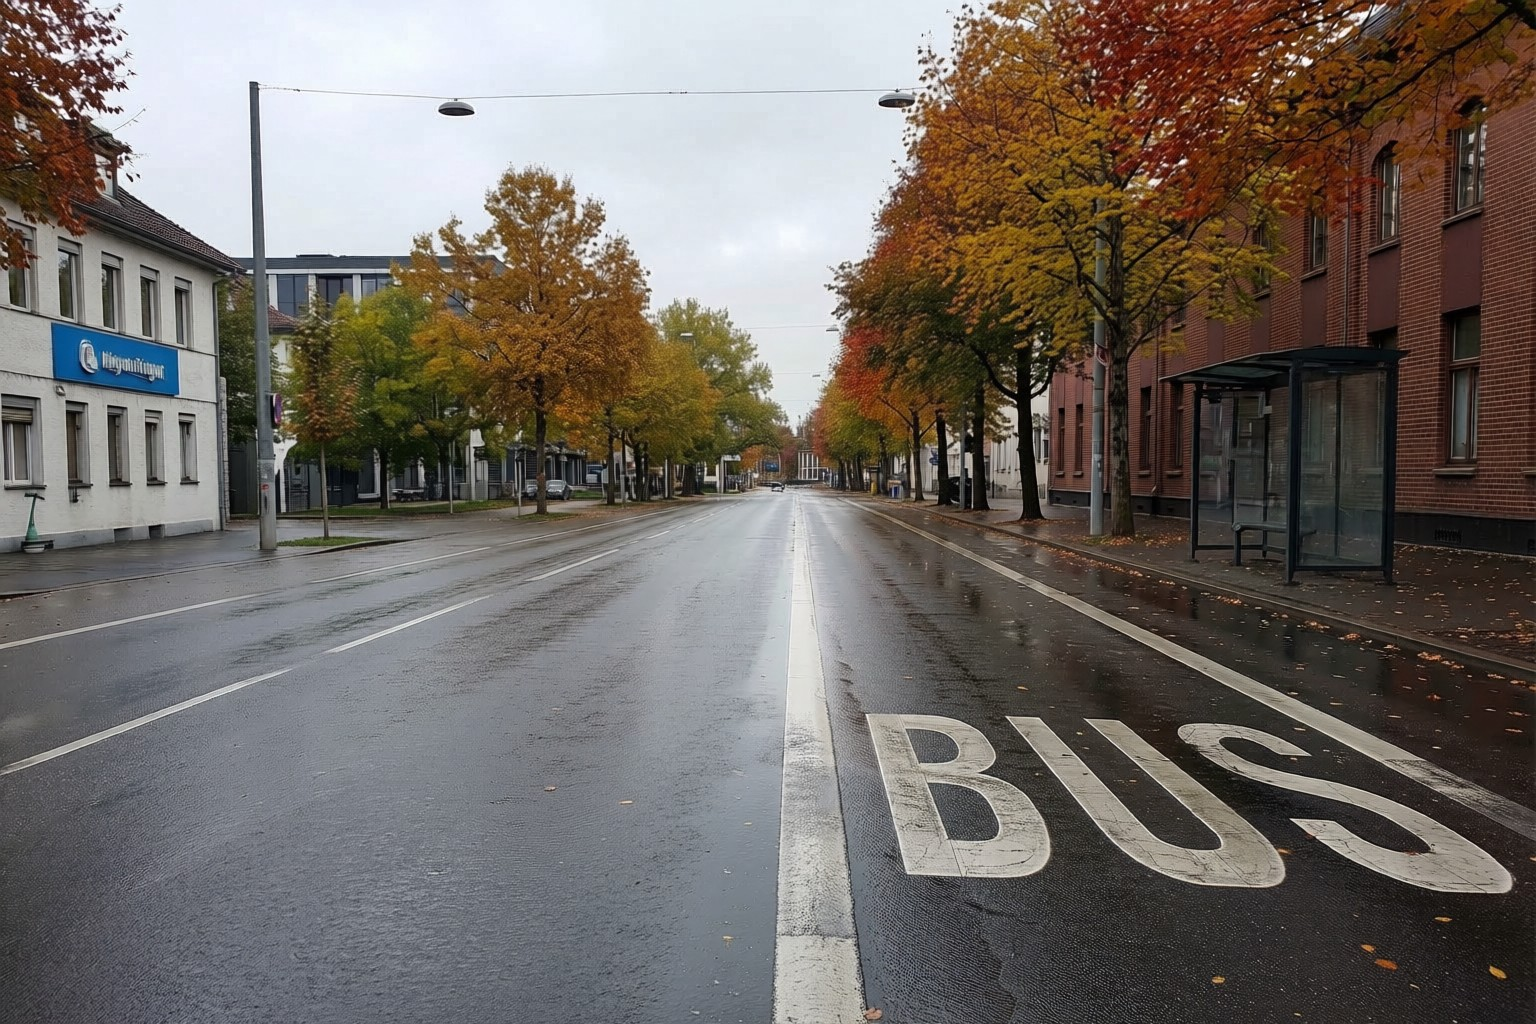
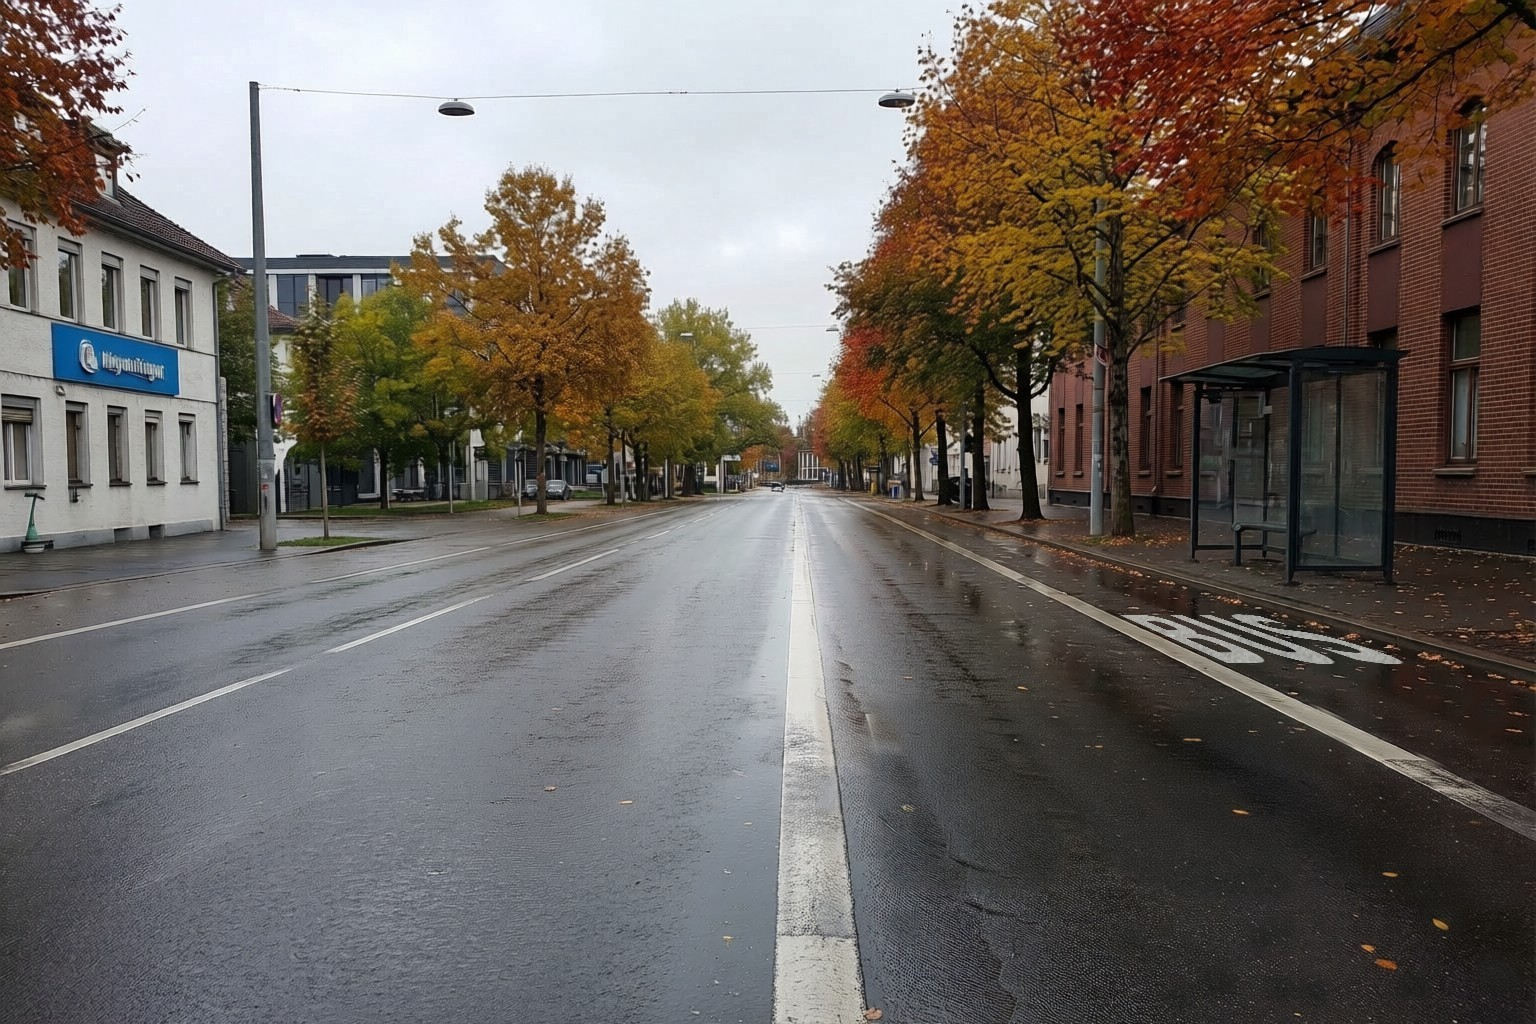
Street view: Etzelstraße stop sign and bus lane at the stop
- Blue-and-white name board "Etzelstraße" beside the shelter in both views, with the H stop sign
- South view: one lane each way plus a bus lane along the kerb at the stop; the BUS lettering
  is removed from the general lane (instruction edit) and painted into the kerb strip
- centre_view.py: --edit-only and --seeds to redo the edit; the image before it is kept

diff --git a/street.js b/street.js
@@ -249,6 +249,7 @@ function render(opts = {}) {
 
   ctx.globalAlpha = 1;
   ctx.drawImage(img, 0, 0);
+  busStop();
   ctx.save();
   ctx.clip(S.ground);
   for (const o of objs) groundMarks(o, sun);
@@ -270,6 +271,64 @@ function render(opts = {}) {
   if (S.debug) debugGrid();
   updateCount();
   showResult(sun);
+}
+
+// ------------------------------------------------------------------ bus stop
+// The stop's blue name board beside the shelter and a stop sign (green H on yellow, as in Germany),
+// drawn into the view at the image positions in config/street.json ("stop" per view).
+
+const STOP_YELLOW = '#f7d117', STOP_GREEN = '#0b6b3a', STOP_BLUE = '#1f4e96';
+
+function busStop() {
+  const stop = S.view.stop, name = S.cfg.stop && S.cfg.stop.name;
+  if (!stop || !name) return;
+  const {ctx} = S;
+  const at = px => { const g = S.cam.toGround(...px); return g && S.cam.project(g.x, 0, g.z); };
+  // name board beside the shelter: blue with a white border and white lettering, on two posts,
+  // standing across the footpath so it faces the traffic (and the camera), 1.5 x 0.45 m, top at 2.6 m
+  const b = at(stop.sign);
+  if (b) {
+    const s = b.scale, w = 1.5 * s, h = 0.45 * s, x = b.u - w / 2, y = b.v - 2.6 * s;
+    ctx.save();
+    ctx.fillStyle = '#6c7378';
+    for (const dx of [-0.55, 0.55]) ctx.fillRect(b.u + (dx - 0.03) * s, y + h, 0.06 * s, 2.6 * s - h);
+    ctx.fillStyle = STOP_BLUE;
+    ctx.fillRect(x, y, w, h);
+    ctx.strokeStyle = '#fff';
+    ctx.lineWidth = Math.max(1, 0.03 * s);
+    ctx.strokeRect(x + 0.04 * s, y + 0.04 * s, w - 0.08 * s, h - 0.08 * s);
+    ctx.fillStyle = '#fff';
+    ctx.font = `700 ${(0.22 * s).toFixed(1)}px "DejaVu Sans", system-ui, sans-serif`;
+    ctx.textAlign = 'center';
+    ctx.textBaseline = 'middle';
+    ctx.fillText(name, b.u, y + h / 2 + 0.01 * s, w - 0.2 * s);
+    ctx.restore();
+  }
+  // stop sign (H) on its pole, at the size the perspective gives
+  const p = at(stop.pole);
+  if (!p) return;
+  const s = p.scale;
+  ctx.save();
+  ctx.fillStyle = '#6c7378';
+  ctx.fillRect(p.u - 0.035 * s, p.v - 2.6 * s, 0.07 * s, 2.6 * s);
+  stopH(ctx, p.u, p.v - 2.35 * s, 0.22 * s);
+  ctx.restore();
+}
+
+// The German stop symbol: a green H on a yellow disc with a green ring.
+function stopH(ctx, x, y, r) {
+  ctx.save();
+  ctx.fillStyle = STOP_YELLOW;
+  ctx.beginPath(); ctx.arc(x, y, r, 0, 2 * Math.PI); ctx.fill();
+  ctx.strokeStyle = STOP_GREEN;
+  ctx.lineWidth = r * 0.16;
+  ctx.beginPath(); ctx.arc(x, y, r * 0.9, 0, 2 * Math.PI); ctx.stroke();
+  ctx.fillStyle = STOP_GREEN;
+  ctx.font = `700 ${(r * 1.25).toFixed(1)}px "DejaVu Sans", system-ui, sans-serif`;
+  ctx.textAlign = 'center';
+  ctx.textBaseline = 'middle';
+  ctx.fillText('H', x, y + r * 0.06);
+  ctx.restore();
 }
 
 // Contact shadows and sun shadows on the ground (drawn under every object).

diff --git a/scripts/centre_view.py b/scripts/centre_view.py
@@ -4,6 +4,11 @@
     python scripts/centre_view.py              # every view
     python scripts/centre_view.py north        # one of them
     python scripts/centre_view.py --seed 7     # another take, if one is not convincing
+    python scripts/centre_view.py south --edit-only --seeds 3   # redo only the lane edit, 3 takes
+
+A view may have an "edit" (here: the lane layout of the south view): the model removes road
+lettering by instruction, only that area is kept, then the script paints new road lettering onto
+the ground in perspective, into a quadrilateral given in image pixels. The image before the edit is kept.
 
 The photos in data/street/ were taken from the pavement. For each view the open model
 Qwen-Image-Edit-2511 (Apache 2.0) gets the street's photos and is asked for the same street,
@@ -20,16 +25,20 @@ import json
 import pathlib
 import time
 
+import cv2
+import numpy as np
+
 import safetensors.torch
 import torch
 from diffusers import QwenImageEditPlusPipeline, QwenImageTransformer2DModel
 from huggingface_hub import snapshot_download
-from PIL import Image
+from PIL import Image, ImageDraw, ImageFilter, ImageFont
 from transformers import AutoConfig, Qwen2_5_VLForConditionalGeneration
 
 ROOT = pathlib.Path(__file__).resolve().parents[1]
 MODEL = "Qwen/Qwen-Image-Edit-2511"
 SIZE = (1536, 1024)  # landscape
+FONT = "DejaVuSans-Bold.ttf"  # road lettering (Pillow finds it in the system font folders)
 NEGATIVE = ("cartoon, illustration, painting, drawing, blurry, distorted, deformed, watermark, fisheye, collage, split image, "
             "sunny, blue sky, summer, cycle lane, red asphalt, bicycle symbol, new trees, planted strips, crowd, "
             "architectural rendering")
@@ -58,12 +67,49 @@ def load_pipeline(model):
     return pipe.to("cuda")
 
 
+def edit(pipe, image, e, seed, steps):
+    """A view's "edit": the model follows "instruction" on the whole view, but only the area around the
+    bright marking pixels inside "remove" (not near "keep_line") is taken from its result; then "text"
+    is painted onto the road in perspective."""
+    a = np.asarray(image.convert("L"))
+    x0, y0, x1, y1 = e["remove"]["box"]
+    m = np.zeros(a.shape, np.uint8)
+    m[y0:y1, x0:x1] = a[y0:y1, x0:x1] > e["remove"].get("brightness", 150)
+    cv2.line(m, *[tuple(q) for q in e["remove"]["keep_line"]], 0, e["remove"]["keep_width"])
+    mask = Image.fromarray(cv2.dilate(m * 255, np.ones((25, 25), np.uint8))).filter(ImageFilter.GaussianBlur(6))
+    out = pipe(image=[image], prompt=e["instruction"], negative_prompt=NEGATIVE, true_cfg_scale=4.0, num_inference_steps=steps,
+               width=image.width, height=image.height, generator=torch.Generator("cuda").manual_seed(seed)).images[0]
+    out = Image.composite(out.resize(image.size), image, mask)
+    return paint_text(out, e["text"]) if "text" in e else out
+
+
+def paint_text(image, t):
+    """Road lettering: t["text"] painted into t["quad"] (image pixels: far left, far right, near right,
+    near left on the road), letter bottoms towards the camera, stretched along the road as road
+    lettering is, as worn white paint."""
+    font = ImageFont.truetype(FONT, 200)
+    box = ImageDraw.Draw(Image.new("L", (1, 1))).textbbox((0, 0), t["text"], font=font)
+    tile = Image.new("L", (box[2] - box[0], box[3] - box[1]), 0)
+    ImageDraw.Draw(tile).text((-box[0], -box[1]), t["text"], font=font, fill=255)
+    w, h = tile.size
+    M = cv2.getPerspectiveTransform(np.float32([[0, 0], [w, 0], [w, h], [0, h]]), np.float32(t["quad"]))
+    alpha = cv2.warpPerspective(np.asarray(tile, np.float32) / 255, M, image.size, flags=cv2.INTER_AREA)
+    wear = cv2.GaussianBlur(np.random.default_rng(1).random(alpha.shape).astype(np.float32), (0, 0), 1.0)
+    alpha *= np.clip(0.55 + 0.6 * wear, 0.4, 0.92)
+    base = np.asarray(image, np.float32)
+    paint = np.float32(t.get("colour", [222, 224, 220])) * (0.8 + 0.2 * base / 255)   # keeps a little of the wet sheen
+    return Image.fromarray(np.uint8(np.clip(base + (paint - base) * alpha[..., None], 0, 255)))
+
+
 def main():
     ap = argparse.ArgumentParser(description=__doc__, formatter_class=argparse.RawDescriptionHelpFormatter)
     ap.add_argument("views", nargs="*", help="view ids (default: all)")
     ap.add_argument("--seed", type=int, default=1)
     ap.add_argument("--steps", type=int, default=40)
     ap.add_argument("--model", default=MODEL, help="Hugging Face id or local copy (much faster to load from a local disk)")
+    ap.add_argument("--edit-only", action="store_true",
+                    help="only redo a view's 'edit' (repaint part of it), starting from its image before the edit")
+    ap.add_argument("--seeds", type=int, default=1, help="with --edit-only: try this many seeds, saved next to the image")
     a = ap.parse_args()
 
     cfg = json.loads((ROOT / "config/street.json").read_text())
@@ -75,12 +121,29 @@ def main():
     print(f"model loaded in {time.time() - t0:.0f} s", flush=True)
     for r in todo:
         t = time.time()
+        dest = ROOT / r["image"]
+        before = dest.with_name(dest.stem + "_before_edit.jpg")  # kept, so an edit can be redone
+        if a.edit_only:
+            if "edit" not in r:
+                continue
+            base = Image.open(before if before.exists() else dest).convert("RGB")
+            if not before.exists():
+                base.save(before, quality=90)
+            # one take: the edit's chosen seed; several: seeds from --seed on, to choose from
+            for seed in range(a.seed, a.seed + a.seeds) if a.seeds > 1 else [r["edit"].get("seed", a.seed)]:
+                out = edit(pipe, base, r["edit"], seed, a.steps)
+                target = dest if a.seeds == 1 else dest.with_name(f"{dest.stem}_seed{seed}.jpg")
+                out.save(target, quality=90)
+                print(f"{r['id']}: edit, seed {seed} -> {target.relative_to(ROOT)} in {time.time() - t:.0f} s", flush=True)
+            continue
         photos = [Image.open(ROOT / views[v]["image"]).convert("RGB") for v in r["photos"]]
         prompt = VIEWPOINT.format(street=cfg["street"], looking=r["looking"]) + TODAY
         out = pipe(image=photos, prompt=prompt, negative_prompt=NEGATIVE, true_cfg_scale=4.0, num_inference_steps=a.steps,
                    width=SIZE[0], height=SIZE[1], generator=torch.Generator("cuda").manual_seed(a.seed)).images[0]
-        dest = ROOT / r["image"]
         dest.parent.mkdir(parents=True, exist_ok=True)
+        if "edit" in r:
+            out.save(before, quality=90)
+            out = edit(pipe, out, r["edit"], r["edit"].get("seed", a.seed), a.steps)
         out.save(dest, quality=90)
         print(f"{r['id']}: {dest.relative_to(ROOT)} in {time.time() - t:.0f} s", flush=True)
 

diff --git a/README.md b/README.md
@@ -414,7 +414,10 @@ and nearer objects cover farther ones; vehicles keep to the right, so they are s
 from the front or from the side. The bus runs as SWH line 32, which uses Weipertstraße (OpenStreetMap
 route relations): its destination display reads "32 Frankenbach Maihalde" northbound and "32
 Sontheim Güldensteinstr." southbound (`bus` in `config/street.json`). The app writes it onto the
-display, since the image model cannot be trusted with lettering. Tree shadows follow the sun for the chosen date and time (the panel
+display, since the image model cannot be trusted with lettering. For the same reason the app draws
+the stop's name, "Etzelstraße" (the stop at the Open Space), on a blue-and-white board beside the
+shelter in both views, as at many stops in Heilbronn, with a stop pole and its H sign (`stop` in
+`config/street.json`; ground points in pixels per view). Tree shadows follow the sun for the chosen date and time (the panel
 says where the sun stands and where shadows fall), and so does the light: warm low sun around
 sunrise and sunset, blue dusk, and night with head- and tail lights (and the bus's lit line number) once the sun is 8° below
 the horizon (the time slider covers the whole day). **Save
@@ -485,6 +488,17 @@ not a photo. It needs a GPU with about 60 GB:
 pip install torch torchvision diffusers transformers accelerate pillow
 python scripts/centre_view.py                 # both views, about 70 s each
 python scripts/centre_view.py north --seed 7  # another take of one
+```
+
+The south view is edited afterwards for its lanes: one lane each way, plus a bus lane along the
+kerb at the stop. The model removes the BUS lettering from the general lane by instruction (only
+that area of its result is kept), then the script paints BUS into the kerb strip in perspective
+(`edit` of the south view in `config/street.json`; the image before the edit is kept next to it).
+The positions are in image pixels, so after a new take of the south view check them again:
+
+```bash
+python scripts/centre_view.py south --edit-only --seeds 3  # 3 takes of the edit, to choose a seed
+python scripts/centre_view.py south --edit-only            # the edit with its chosen seed
 ```
 
 On a GH200 (ARM) load the model from a local disk (`--model /local/copy`): the script reads the
